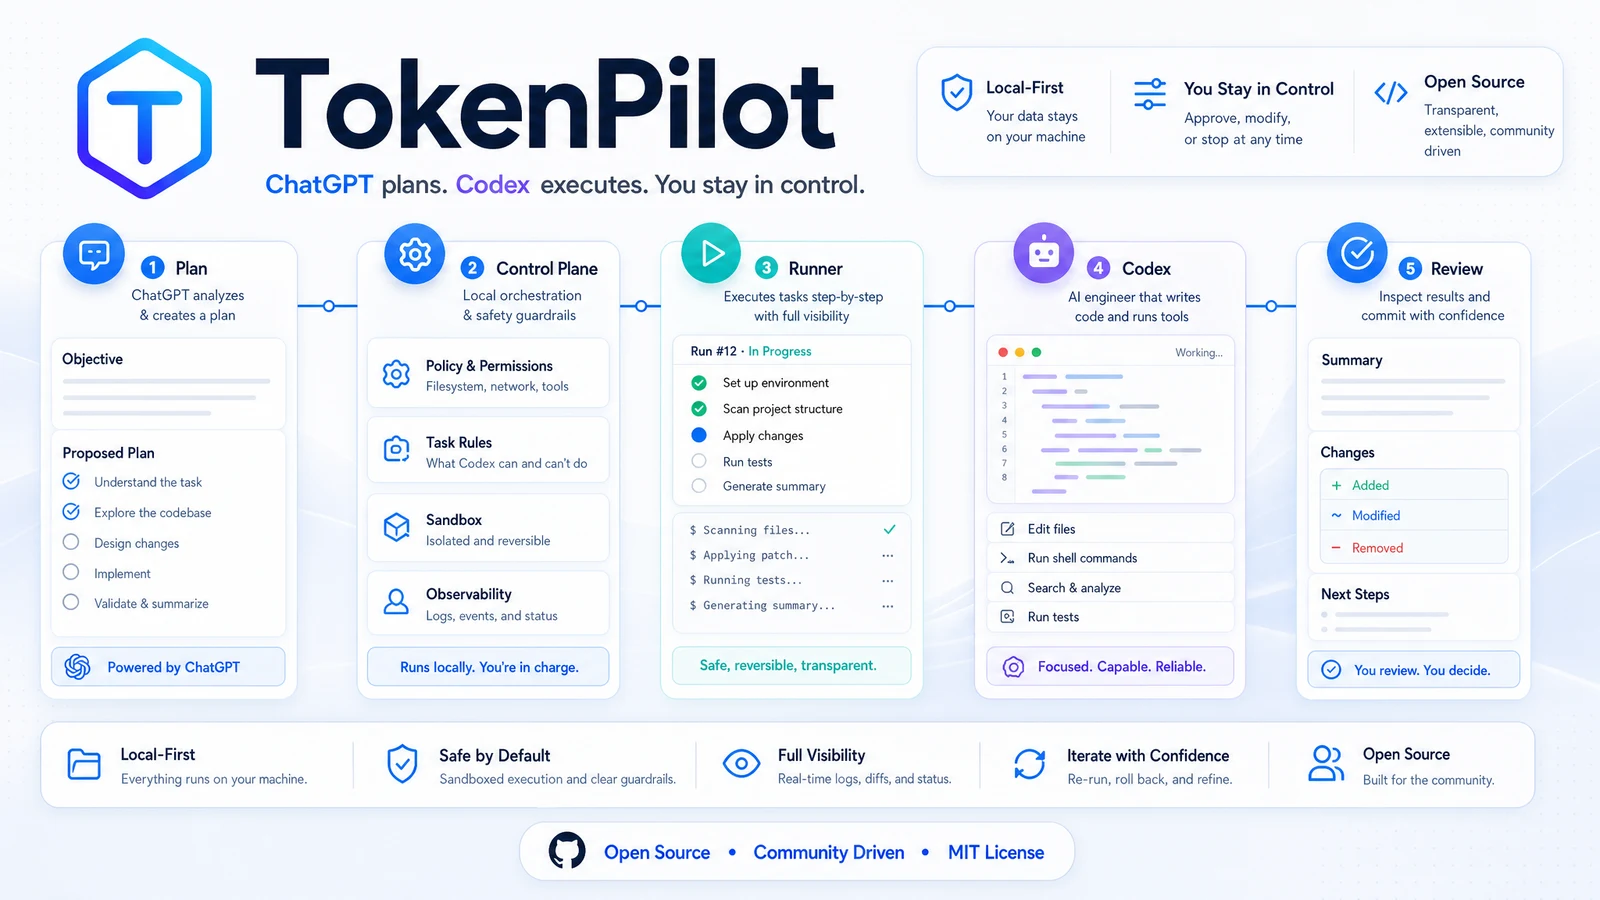
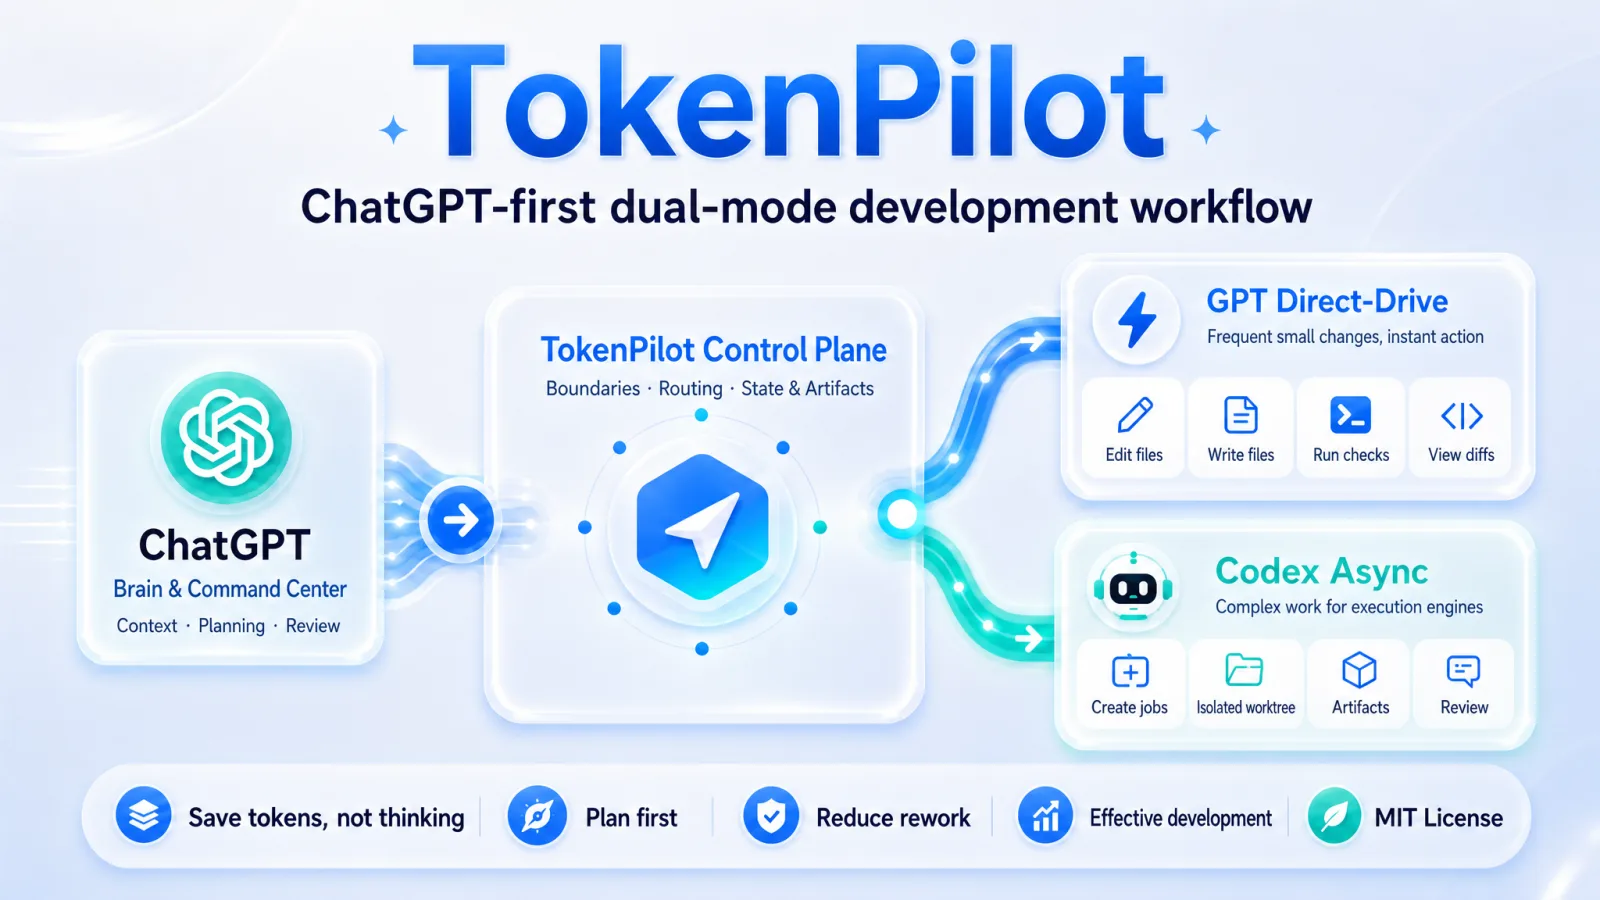
更新 ChatGPT-first 产品定位与双语海报

diff --git a/README.zh-CN.md b/README.zh-CN.md
@@ -7,35 +7,38 @@
 ## **项目状态：v0.1.0-alpha local-first public preview**
 > TokenPilot 目前仍处在探索早期，但已经不再只是概念说明。<br>
 > 当前已具备 **local-first CLI / server / runner、本地 file-backed job queue、OpenAPI、Files Read/Write/Edit API、Code Search、Shell Run（白名单）、Git Diff/Status/Commit API、Codex Run job、exposed-mode auth、本地 E2E 验证，以及第一版本地操作员 Web UI**。<br>
-> 当前 Web UI 用于查看运行状态、Jobs、GPT Helper，并提供受控任务暂停 / 继续 / 终止入口。<br>**已支持双模式开发：** 简单修改 ChatGPT 直驱（writeFile / editFile / runShell），复杂任务通过 createCodexRun job 交给本地 runner 与 Codex CLI 异步执行。直驱 runShell 不是 raw shell，但仍属于高信任本地命令执行 API，只应在私有、受鉴权的 operator 环境中使用。<br>
+> 当前 Web UI 用于查看运行状态、Jobs、GPT Helper，并提供受控任务暂停 / 继续 / 终止入口。<br>**已支持双模式开发：** 高频简单任务由 ChatGPT 通过 writeFile / editFile / runShell / Git API 直驱完成，复杂任务通过 createCodexRun job 交给本地 runner 与 Codex CLI 异步执行。直驱 runShell 不是 raw shell，但仍属于高信任本地命令执行 API，只应在私有、受鉴权的 operator 环境中使用。<br>
 > **Full HTTPS / Custom GPT Actions automation loop is still under validation.**<br>
 > 当前仓库可以描述为：**可验证、可继续演进的本地公开预览版本**，而不是完整 HTTPS 管理平台。<br>
-> **如果你对 ChatGPT + Codex 协同开发、Token 优化、任务边界设计这类话题感兴趣，欢迎参与讨论：[GitHub Discussions](https://github.com/wuaishare/TokenPilot/discussions)。**
+> **如果你对 ChatGPT-first 协同开发、双模式执行路由、Token 优化、任务边界设计这类话题感兴趣，欢迎参与讨论：[GitHub Discussions](https://github.com/wuaishare/TokenPilot/discussions)。**
 > 欢迎分享经验、反例和有价值的思路。
 
-> **省 Token，不省思考。**<br>
-> 用 ChatGPT 做需求澄清、上下文压缩、任务规划与结果复盘；用 Codex 进入仓库执行修改、运行验证、产出 Diff / PR。<br>
-> **让 AI 少读重复上下文，多做有效开发。**
+> **以 ChatGPT 为入口的「GPT 直驱 + Codex 异步」双模式协同开发工作流。**<br>
+> ChatGPT 作为大脑与指挥中心，负责上下文管理、任务规划、执行指挥和结果审查；TokenPilot 作为 local-first 控制面，负责任务边界、模式路由、状态持久化和 public-safe 产物治理；Codex 作为当前接入的异步执行器，承接大型重构与复杂功能开发。<br>
+> **省 Token，不省思考。谋定而后动，减少返工，有效开发。**
 ---
 
 ## TokenPilot 是什么？
 
-**TokenPilot** 是一个探索 **ChatGPT + Codex 协同开发工作流** 的开源项目。
+**TokenPilot** 是一个探索 **ChatGPT-first 双模式协同开发工作流** 的开源项目。
 
 它的核心思路很简单：
 
 ```text
-ChatGPT：规划者 / 审查者 / 上下文压缩器
-TokenPilot：本地任务编排者 / 状态持久化层
-Codex：执行者 / 编码者 / 验证者
+ChatGPT：大脑 / 指挥中心 / 上下文管理 / 规划审查
+TokenPilot：本地控制面 / 模式路由 / 状态与产物治理
+GPT 直驱：高频小改动 / 短验证 / public-safe Git 操作
+Codex 异步：复杂开发 / 可选 worktree / Diff、Artifact 与 Review
 ```
 
-ChatGPT 负责把问题想清楚、边界压清楚、任务写清楚；TokenPilot 负责把结构化任务落成本地 job、维护状态与结果；Codex 负责进入真实仓库执行、验证、自动审查并交付产物。
+ChatGPT 负责把问题想清楚、上下文管住、任务边界压清楚，并在执行后做复盘审查；TokenPilot 负责把这些对话式决策落成本地可追踪的模式路由、job 状态和 public-safe 产物；直驱模式承接高频简单任务，Codex 异步模式承接大型重构与复杂功能开发。
 
 TokenPilot 不是为了少用 AI，而是为了更会用 AI：
 
-> 以人为舵，以 AI 为帆。<br>
-> 先定方向，再让模型加速。
+> 以 ChatGPT 为大脑，先谋定，再执行。<br>
+> 省 Token，不省思考；减少返工，有效开发。
+
+当前异步执行器以 Codex 为主；未来同一任务边界和产物治理模型也可以扩展到 Claude Code、opencode、reasonix 等更多编程执行器。
 
 ---
 

diff --git a/README.md b/README.md
@@ -6,27 +6,32 @@
 
 **v0.1.0-alpha local-first public preview**
 
-TokenPilot is an open-source, local-first control plane for running a safer ChatGPT + Codex workflow. It turns a GPT conversation into structured local jobs, public-safe artifacts, reviewable diffs, and optional Codex runs inside allowlisted repositories.
+TokenPilot is a ChatGPT-first dual-mode development workflow: GPT direct-drive for frequent small changes, and Codex async runs for complex repository work.
+
+ChatGPT acts as the brain and command center for context management, planning, orchestration, and review. TokenPilot provides the local-first control plane for task boundaries, mode routing, persistent state, and public-safe artifacts. Codex is the current async execution engine for larger refactors and complex feature work.
+
+Save tokens, not thinking. Plan first, reduce rework, and ship more effective changes.
 
 It is not a public management platform yet. The current release is a verifiable local operator preview with a CLI, Fastify control plane, paired runner, file-backed job queue, OpenAPI contract, file read/write/edit APIs, code search, allowlisted shell execution, Git status/diff/commit APIs, `createCodexRun` jobs, exposed-mode bearer auth, local E2E checks, and a first operator Web UI.
-
-> Save tokens by reducing blind reads, repeated context, and unclear task loops. Do not save thinking.
 
 ## What It Does
 
 ```text
-ChatGPT: plans, reviews, compresses context
-TokenPilot: persists jobs, state, policy, and public-safe results
-Codex: edits the real repository, runs checks, and returns artifacts
+ChatGPT: brain and command center for planning, context, orchestration, and review
+TokenPilot: local-first control plane for boundaries, routing, state, and artifacts
+GPT direct-drive: frequent small edits, short checks, and public-safe Git operations
+Codex async: complex repository work, optional worktrees, diffs, artifacts, and review
 ```
 
-TokenPilot is designed around a simple workflow:
+TokenPilot is designed around a dual-mode workflow:
 
 ```text
-Conversation -> Task contract -> Local job -> Runner/Codex execution -> Diff/artifacts -> Review
+Conversation -> Task boundary -> Mode routing -> Direct GPT edit or Codex async run -> Diff/artifacts -> Review
 ```
 
-Use ChatGPT where it is strongest: clarifying intent, compressing context, and reviewing outcomes. Use Codex where it is strongest: entering the repository, editing files, running validation, and producing a concrete diff.
+Use ChatGPT where it is strongest: managing context, clarifying intent, planning work, and reviewing outcomes. Use GPT direct-drive for high-frequency small tasks. Use Codex when the task is large enough to deserve deeper repository execution.
+
+Codex is the first async execution engine. The same task-boundary and artifact-governance model can grow toward other async coding tools such as Claude Code, opencode, or reasonix without changing the ChatGPT-first product model.
 
 ## Current Capabilities
 
